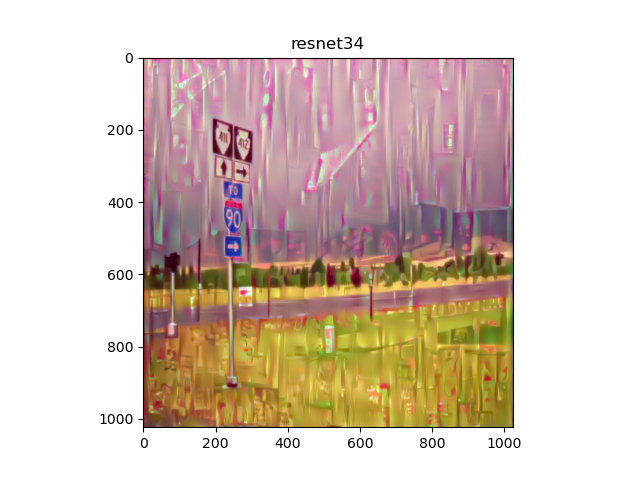
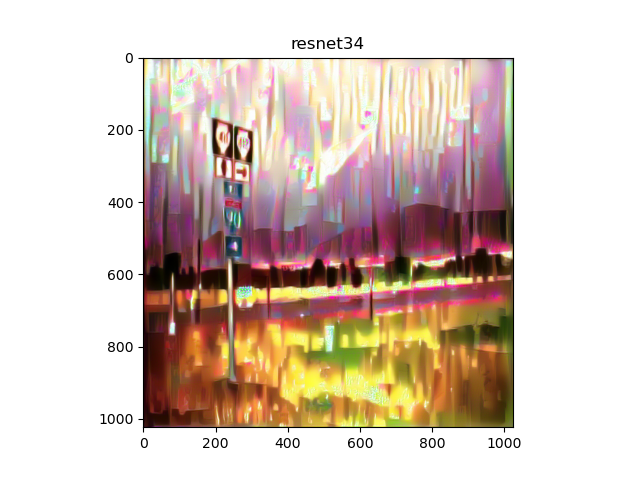
normalization works
I was dumb

diff --git a/model.py b/model.py
@@ -42,16 +42,20 @@ class Normalization(nn.Module):
     return (img - self.mean) / self.std
 
 
-def resnet_model_and_losses(cnn, style_img, content_img, device):
+def resnet_model_and_losses(cnn, normalization_mean, normalization_std, style_img, content_img, device):
   cnn = copy.deepcopy(cnn)
   content_losses = []
   style_losses = []
   i = 1
 
   # refer to resnet_architecture.txt for ResNet34 architecture
-  # ideal: lr = 1.65, style_weight = 10000000000
+  # ideal: lr = 0.75, style_weight = 1000000000
 
-  model = nn.Sequential(cnn.conv1, cnn.bn1, cnn.relu, cnn.maxpool)
+  normalization = Normalization(
+      normalization_mean, normalization_std).to(device)
+
+  model = nn.Sequential(normalization, cnn.conv1,
+                        cnn.bn1, cnn.relu, cnn.maxpool)
 
   # layer 1 (0)
   model.add_module('layer1', nn.Sequential(cnn.layer1[0]))
@@ -59,13 +63,13 @@ def resnet_model_and_losses(cnn, style_img, content_img, device):
   # layer 1 - style (in between 0 and 1)
   target_feature = model(style_img).detach()
   style_loss = StyleLoss(target_feature)
-  model[4].add_module("style_loss_{}".format(i), style_loss)
+  model[5].add_module("style_loss_{}".format(i), style_loss)
   style_losses.append(style_loss)
   i += 1
 
   # layer 1 (1 - 2)
-  model[4].add_module('layer1_1', cnn.layer1[1])
-  model[4].add_module('layer1_2', cnn.layer1[2])
+  model[5].add_module('layer1_1', cnn.layer1[1])
+  model[5].add_module('layer1_2', cnn.layer1[2])
 
   # layer 2 (0)
   model.add_module('layer2', nn.Sequential(cnn.layer2[0]))
@@ -73,14 +77,14 @@ def resnet_model_and_losses(cnn, style_img, content_img, device):
   # layer 2 - style (in between 0 and 1)
   target_feature = model(style_img).detach()
   style_loss = StyleLoss(target_feature)
-  model[5].add_module("style_loss_{}".format(i), style_loss)
+  model[6].add_module("style_loss_{}".format(i), style_loss)
   style_losses.append(style_loss)
   i += 1
 
   # layer 2 (1 - 2)
-  model[5].add_module('layer2_1', cnn.layer2[1])
-  model[5].add_module('layer2_2', cnn.layer2[2])
-  model[5].add_module('layer2_3', cnn.layer2[3])
+  model[6].add_module('layer2_1', cnn.layer2[1])
+  model[6].add_module('layer2_2', cnn.layer2[2])
+  model[6].add_module('layer2_3', cnn.layer2[3])
 
   # layer 3 (0)
   model.add_module('layer3', nn.Sequential(cnn.layer3[0]))
@@ -88,30 +92,30 @@ def resnet_model_and_losses(cnn, style_img, content_img, device):
   # layer 3 - style (in between 0 and 1)
   target_feature = model(style_img).detach()
   style_loss = StyleLoss(target_feature)
-  model[6].add_module("style_loss_{}".format(i), style_loss)
+  model[7].add_module("style_loss_{}".format(i), style_loss)
   style_losses.append(style_loss)
   i += 1
 
   # layer 3 (1 - 3)
-  model[6].add_module('layer3_1', cnn.layer3[1])
-  model[6].add_module('layer3_2', cnn.layer3[2])
-  model[6].add_module('layer3_3', cnn.layer3[3])
+  model[7].add_module('layer3_1', cnn.layer3[1])
+  model[7].add_module('layer3_2', cnn.layer3[2])
+  model[7].add_module('layer3_3', cnn.layer3[3])
 
   # layer 3 - style (between 3 and 4)
   target_feature = model(style_img).detach()
   style_loss = StyleLoss(target_feature)
-  model[6].add_module("style_loss_{}".format(i), style_loss)
+  model[7].add_module("style_loss_{}".format(i), style_loss)
   style_losses.append(style_loss)
   i += 1
 
   # layer 3 (4 - 5)
-  model[6].add_module('layer3_4', cnn.layer3[4])
-  model[6].add_module('layer3_5', cnn.layer3[5])
+  model[7].add_module('layer3_4', cnn.layer3[4])
+  model[7].add_module('layer3_5', cnn.layer3[5])
 
   # layer 3 - content (end of everything)
   target = model(content_img).detach()
   content_loss = ContentLoss(target)
-  model[6].add_module("content_loss", content_loss)
+  model[7].add_module("content_loss", content_loss)
   content_losses.append(content_loss)
 
   # layer 4 (0)
@@ -120,7 +124,7 @@ def resnet_model_and_losses(cnn, style_img, content_img, device):
   # layer 4 - style (in between 0 and 1)
   target_feature = model(style_img).detach()
   style_loss = StyleLoss(target_feature)
-  model[7].add_module("style_loss_{}".format(i), style_loss)
+  model[8].add_module("style_loss_{}".format(i), style_loss)
   style_losses.append(style_loss)
   i += 1
 

diff --git a/main.py b/main.py
@@ -83,7 +83,7 @@ def run_style_transfer(cnn, normalization_mean, normalization_std, content_img, 
   if model_name == 'resnet34':
     print('Building ResNet34 model!')
     model, style_losses, content_losses = resnet_model_and_losses(
-        cnn, style_img, content_img, device)
+        cnn, normalization_mean, normalization_std, style_img, content_img, device)
   else:
     print('Building VGG19 model!')
     model, style_losses, content_losses = get_style_model_and_losses(
